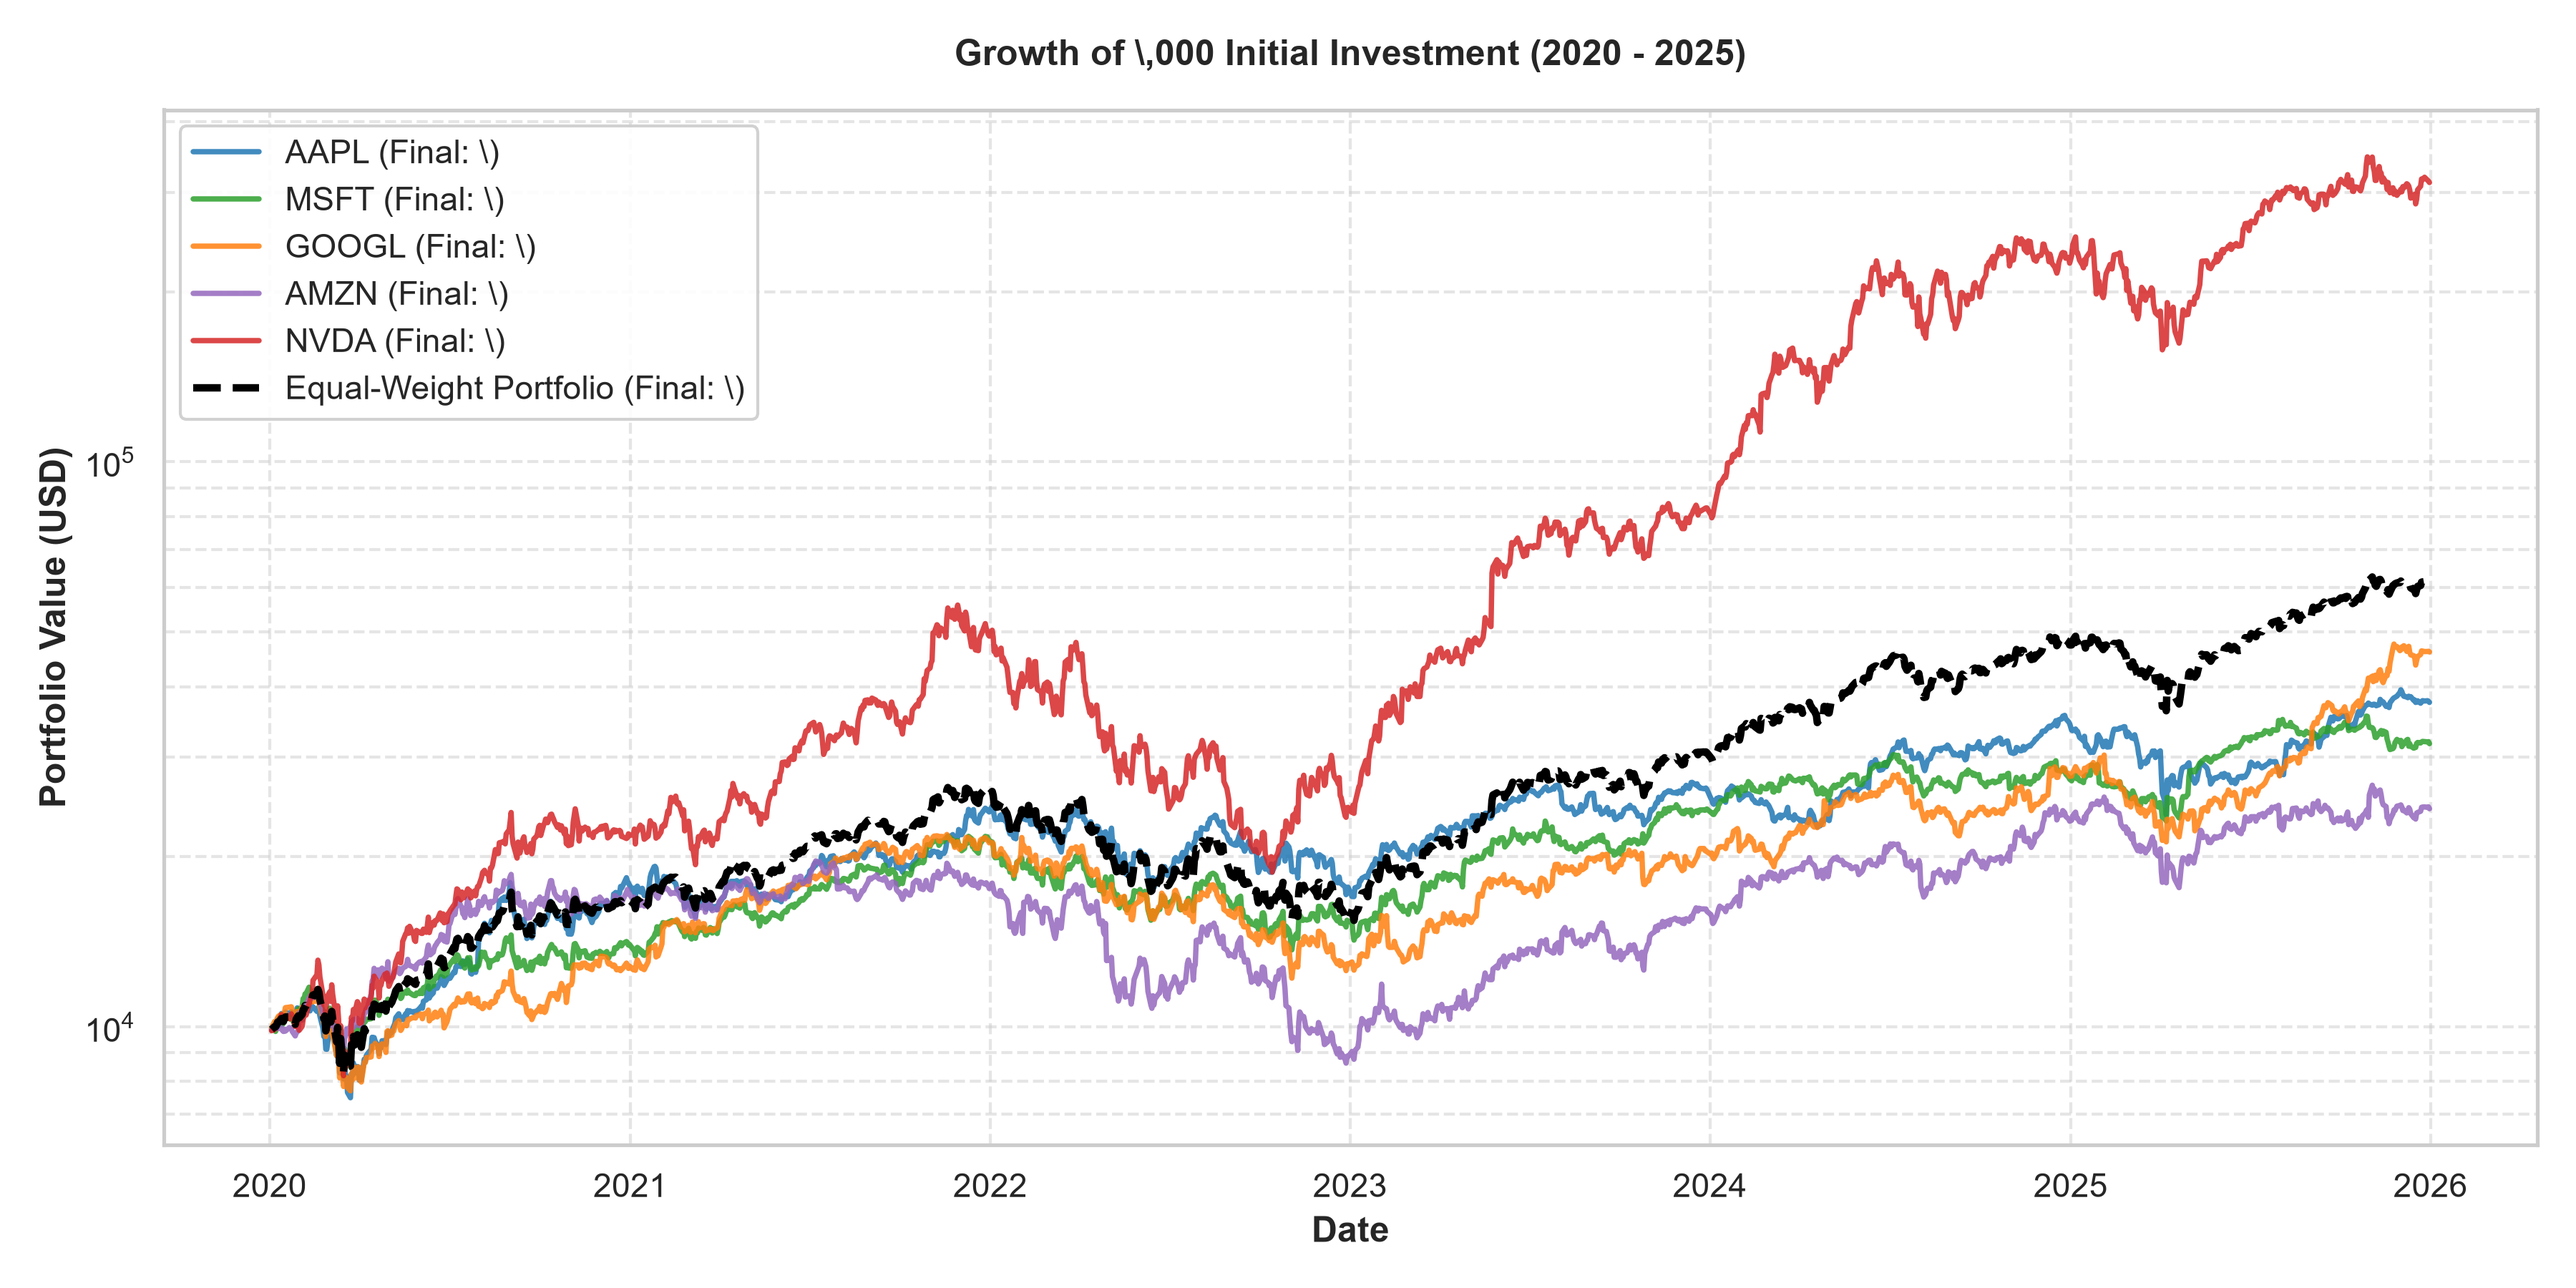
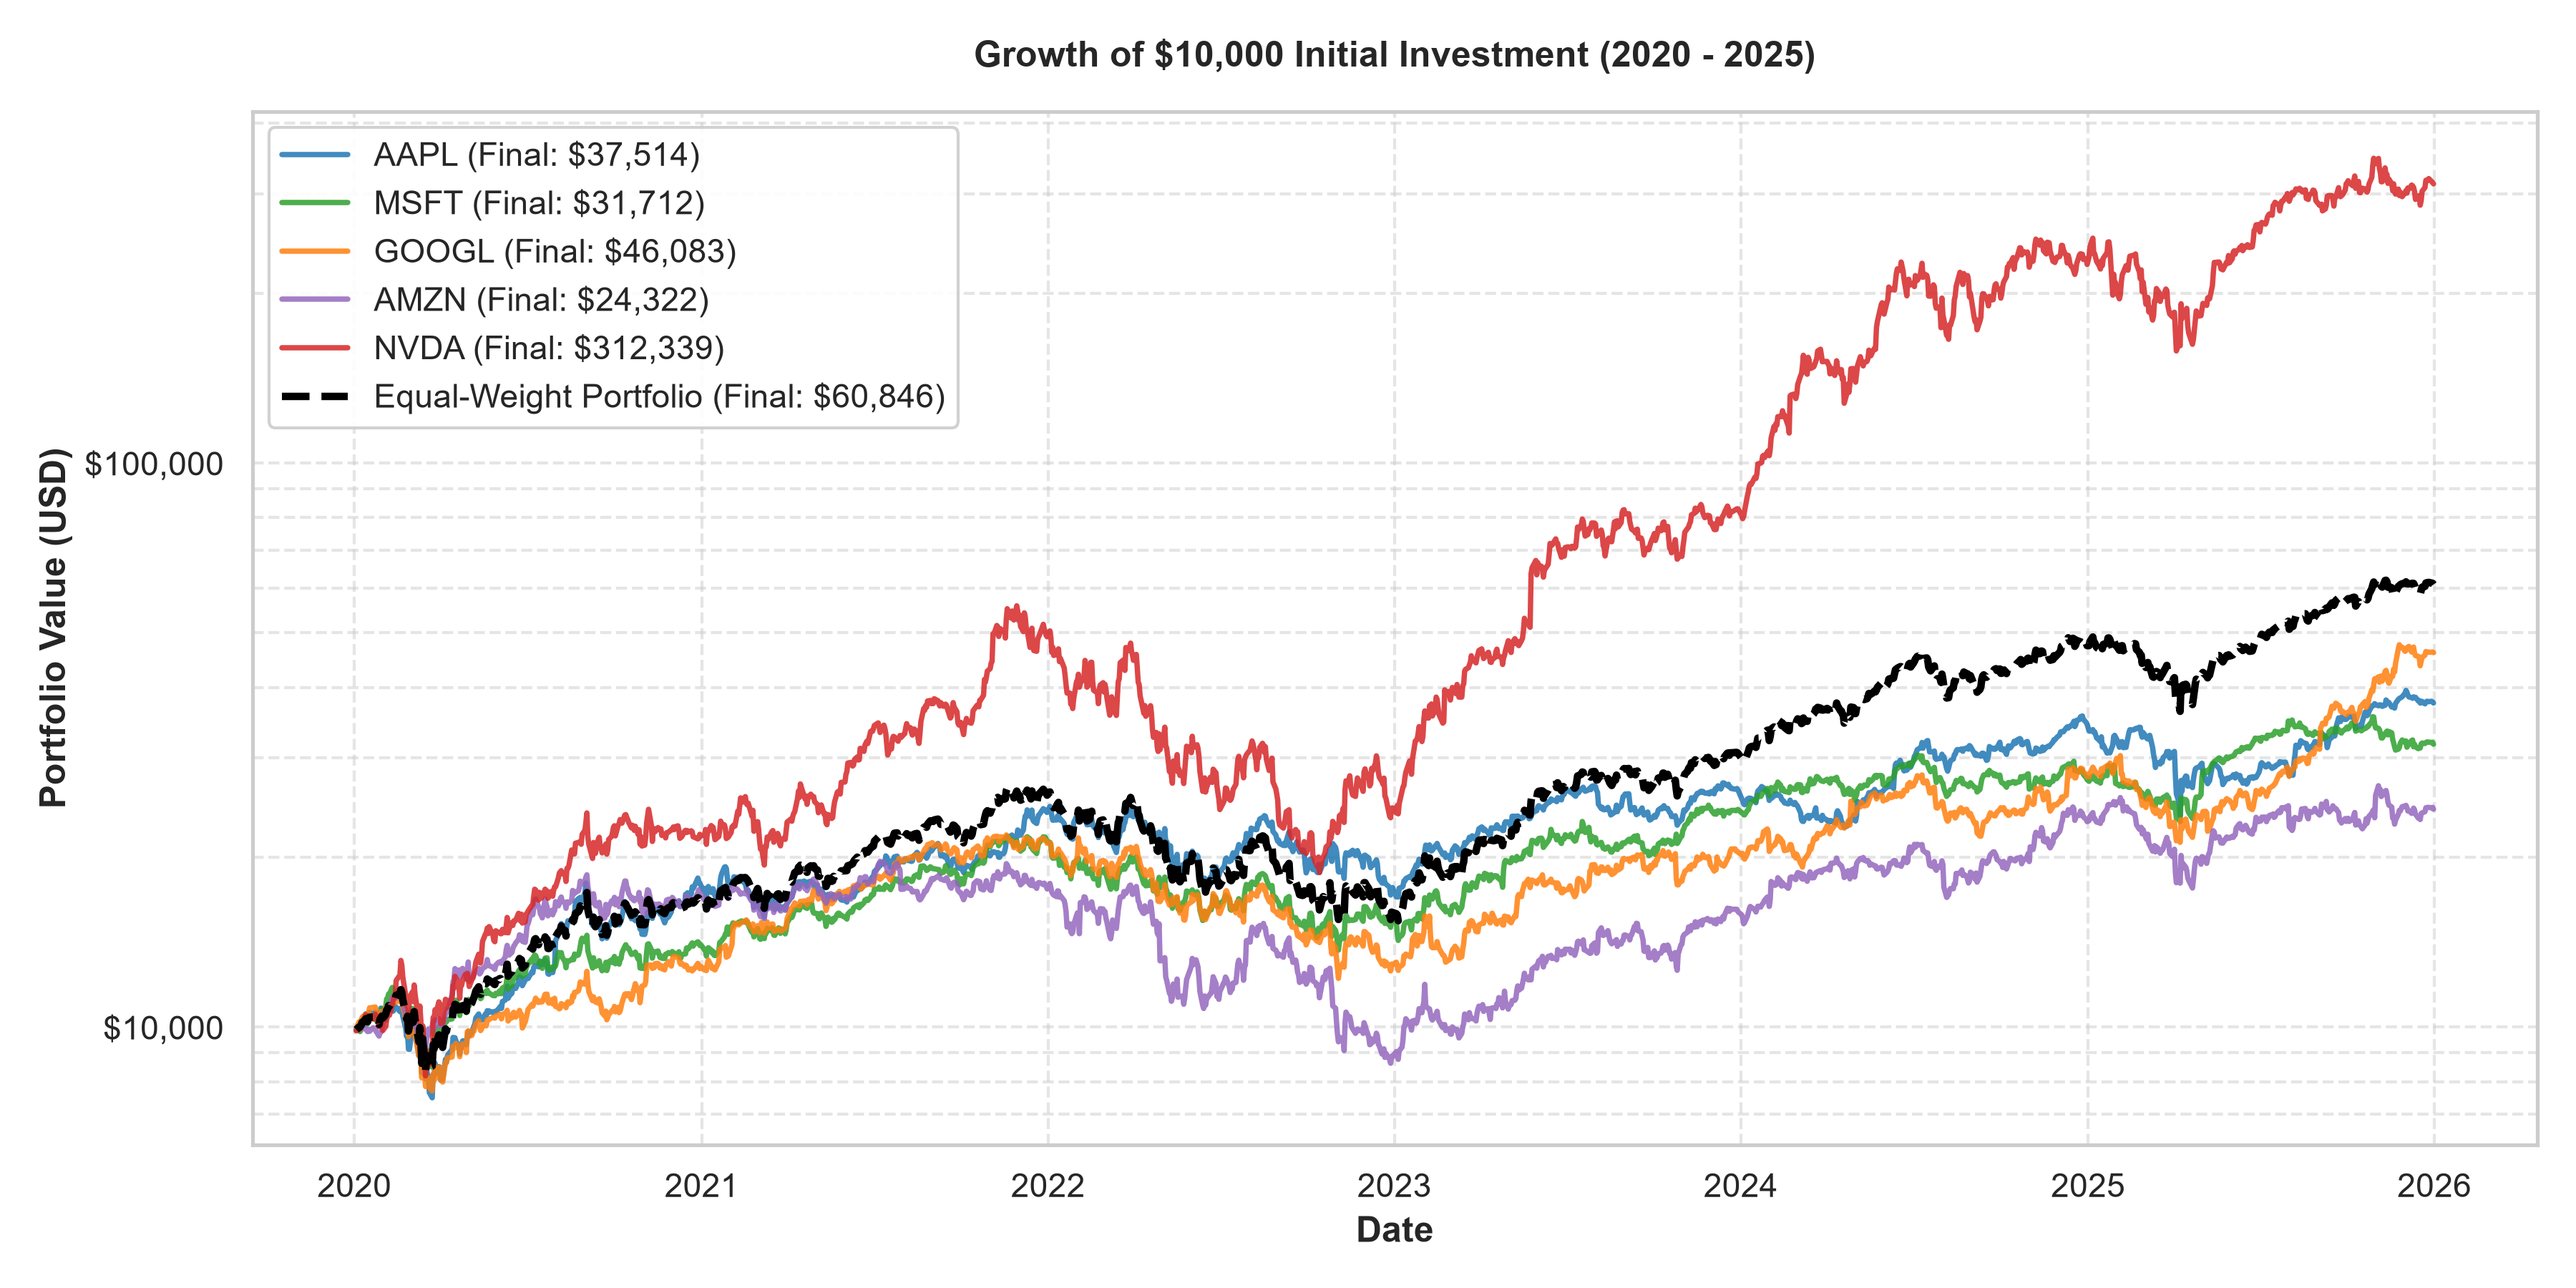
fix: remove resume section, fix LaTeX math blocks, and regenerate clean assets without backslashes

diff --git a/README.md b/README.md
@@ -20,7 +20,6 @@ An end-to-end quantitative financial analytics and algorithmic backtesting proje
 - [Strategic Capital Allocation Model ($10,000 Capital Base)](#-strategic-capital-allocation-model-10000-capital-base)
 - [Repository Structure](#-repository-structure)
 - [Quickstart & Installation](#-quickstart--installation)
-- [Resume / CV Bullet Points](#-resume--cv-bullet-points)
 - [License & Author](#-license--author)
 
 ---
@@ -33,7 +32,7 @@ This project conducts a comprehensive empirical study of five leading technology
 3. **Generative AI Secular Bull Cycle (2023–2025):** Explosive computing demand propelling semiconductor and hyperscaler equities to all-time highs.
 
 ### Core Quantitative Insights:
-- **Asymmetric Outperformance:** NVIDIA (`NVDA`) achieved a **+3,023.39% cumulative return** (turning \$10,000 into **\$312,339**), outperforming the second-best asset (`GOOGL`: +360.83%) by over **8x**, while simultaneously generating the cohort's highest Sharpe ratio (**1.2735**).
+- **Asymmetric Outperformance:** NVIDIA (`NVDA`) achieved a **+3,023.39% cumulative return** (turning $10,000 into **$312,339**), outperforming the second-best asset (`GOOGL`: +360.83%) by over **8x**, while simultaneously generating the cohort's highest Sharpe ratio (**1.2735**).
 - **Markowitz Diversification Benefit:** An equal-weighted ($1/N$) portfolio achieved an annualized volatility of **30.64%**—lower than 4 out of 5 individual assets (`AAPL`: 31.81%, `GOOGL`: 32.47%, `AMZN`: 35.70%, `NVDA`: 53.18%)—while delivering a **+508.46% total return** and a superior Sharpe ratio of **1.0111**.
 - **Downside Risk & Tail Clustering:** Maximum drawdowns reached **-66.34%** for NVDA and **-56.15%** for AMZN during 2022. Rolling volatility exhibited severe non-stationarity and clustering, peaking during the March 2020 liquidity shock at over **138% annualized**.
 - **Look-Ahead Bias Free Backtest:** A 50-day Simple Moving Average (SMA) trend-following system mitigated maximum drawdown (slashing NVDA drawdown from -66.34% to -33.78%) and cut annualized volatility across all assets, demonstrating an effective capital-preservation tool for risk-averse institutional mandates.
@@ -44,14 +43,14 @@ This project conducts a comprehensive empirical study of five leading technology
 
 All metrics calculated across **1,508 trading sessions** with an annual risk-free benchmark $R_f = 4.0\%$:
 
-| Asset / Portfolio | Cumulative Return | Annualized Return | Annualized Volatility | Sharpe Ratio ($R_f=4\%$) | Max Drawdown (MDD) | Final Value ($W_0=\$10\text{k}$) |
+| Asset / Portfolio | Cumulative Return | Annualized Return | Annualized Volatility | Sharpe Ratio ($R_f=4\%$) | Max Drawdown (MDD) | Final Value ($W_0=$10\text{k}$) |
 | :--- | :---: | :---: | :---: | :---: | :---: | :---: |
-| **NVIDIA (`NVDA`)** | **+3,023.39%** | +68.32% | 53.18% | **1.2735** | -66.34% | **\$312,338.93** |
-| **Alphabet (`GOOGL`)** | **+360.83%** | +30.28% | 32.47% | **0.8287** | -44.32% | **\$46,083.09** |
-| **Apple (`AAPL`)** | **+275.14%** | +26.54% | 31.81% | **0.7305** | **-33.36%** | **\$37,514.36** |
-| **Microsoft (`MSFT`)** | **+217.12%** | +23.08% | **29.55%** | **0.6682** | -37.15% | **\$31,711.60** |
-| **Amazon (`AMZN`)** | **+143.22%** | +17.93% | 35.70% | **0.4847** | -56.15% | **\$24,322.32** |
-| **Equal-Weight Portfolio** | **+508.46%** | **+38.16%** | **30.64%** | **1.0111** | **-41.83%** | **\$60,846.04** |
+| **NVIDIA (`NVDA`)** | **+3,023.39%** | +68.32% | 53.18% | **1.2735** | -66.34% | **$312,338.93** |
+| **Alphabet (`GOOGL`)** | **+360.83%** | +30.28% | 32.47% | **0.8287** | -44.32% | **$46,083.09** |
+| **Apple (`AAPL`)** | **+275.14%** | +26.54% | 31.81% | **0.7305** | **-33.36%** | **$37,514.36** |
+| **Microsoft (`MSFT`)** | **+217.12%** | +23.08% | **29.55%** | **0.6682** | -37.15% | **$31,711.60** |
+| **Amazon (`AMZN`)** | **+143.22%** | +17.93% | 35.70% | **0.4847** | -56.15% | **$24,322.32** |
+| **Equal-Weight Portfolio** | **+508.46%** | **+38.16%** | **30.64%** | **1.0111** | **-41.83%** | **$60,846.04** |
 
 ---
 
@@ -87,27 +86,48 @@ Empirical demonstration of volatility reduction and max drawdown mitigation achi
 
 ### 1. Daily Returns & Compounding Mechanics
 Daily discrete percentage return:
-$$R_t = \frac{P_t - P_{t-1}}{P_{t-1}}$$
+
+$$
+R_t = \frac{P_t - P_{t-1}}{P_{t-1}}
+$$
 
 Cumulative wealth from initial capital $W_0$:
-$$\text{Wealth}_t = W_0 \times \prod_{\tau=1}^t (1 + R_\tau)$$
+
+$$
+\text{Wealth}_t = W_0 \times \prod_{\tau=1}^t (1 + R_\tau)
+$$
 
 ### 2. Risk-Adjusted Return (Annualized Sharpe Ratio)
 Assuming 252 trading sessions per annum and daily risk-free conversion $R_{f, \text{daily}} = (1 + R_f)^{1/252} - 1$:
-$$\text{Sharpe Ratio} = \frac{\mathbb{E}[R_t - R_{f, \text{daily}}]}{\sigma(R_t)} \times \sqrt{252}$$
+
+$$
+\text{Sharpe Ratio} = \frac{\mathbb{E}[R_t - R_{f, \text{daily}}]}{\sigma(R_t)} \times \sqrt{252}
+$$
 
 ### 3. Peak-to-Trough Maximum Drawdown (MDD)
-$$\text{Drawdown}_t = \frac{P_t - \max_{\tau \le t} P_\tau}{\max_{\tau \le t} P_\tau}, \quad \text{MDD} = \min_{t \in [1, T]} \text{Drawdown}_t$$
+
+$$
+\text{Drawdown}_t = \frac{P_t - \max_{\tau \le t} P_\tau}{\max_{\tau \le t} P_\tau}, \quad \text{MDD} = \min_{t \in [1, T]} \text{Drawdown}_t
+$$
 
 ### 4. Modern Portfolio Theory (MPT) Equal-Weight Formulation
-$$R_{\text{port}, t} = \mathbf{w}^T \mathbf{R}_t = \sum_{i=1}^N w_i R_{i, t}, \quad \sigma_{\text{port}} = \sqrt{\mathbf{w}^T \mathbf{\Sigma} \mathbf{w}}$$
+
+$$
+R_{\text{port}, t} = \mathbf{w}^T \mathbf{R}_t = \sum_{i=1}^N w_i R_{i, t}, \quad \sigma_{\text{port}} = \sqrt{\mathbf{w}^T \mathbf{\Sigma} \mathbf{w}}
+$$
 
 ---
 
 ## 🤖 Algorithmic Strategy Backtesting
 
 To evaluate active market timing vs. passive indexing, we implemented a **50-day Simple Moving Average (SMA) Trend-Following Strategy**:
-$$\text{Signal}_t = \begin{cases} 1 & \text{if } P_{t-1} > \text{SMA}_{50}(t-1) \quad (\text{Long Equity}) \\ 0 & \text{otherwise} \quad (\text{100\% Risk-Free Cash}) \end{cases}$$
+
+$$
+\text{Signal}_t = \begin{cases} 
+1 & \text{if } P_{t-1} > \text{SMA}_{50}(t-1) \quad (\text{Long Equity}) \\ 
+0 & \text{otherwise} \quad (\text{100% Risk-Free Cash}) 
+\end{cases}
+$$
 
 ### Look-Ahead Bias Prevention
 Signals generated at the close of trading session $t-1$ are only executed on session $t$ by strictly applying `signal.shift(1)`. This ensures zero leakage of contemporaneous pricing into execution decisions.
@@ -125,11 +145,11 @@ Based on multi-objective empirical optimization (maximizing Sharpe ratio, dampen
 
 | Asset | Weight | Capital Allocation | Quantitative Investment Rationale |
 | :--- | :---: | :---: | :--- |
-| **NVIDIA (`NVDA`)** | **30%** | **\$3,000** | **Alpha Engine:** Captures secular AI tailwinds with cohort-leading Sharpe (1.2735) and +3,023% return; position sized to 30% to constrain exposure to its -66.34% drawdown. |
-| **Apple (`AAPL`)** | **25%** | **\$2,500** | **Capital Defense:** Lowest maximum drawdown (-33.36%) and reliable consumer ecosystem cash flows providing critical downside cushion. |
-| **Alphabet (`GOOGL`)** | **25%** | **\$2,500** | **Core Growth:** High risk-adjusted efficiency (Sharpe 0.8287) and lowest pairwise correlation with NVDA ($\rho = 0.5764$). |
-| **Microsoft (`MSFT`)** | **20%** | **\$2,000** | **Volatility Anchor:** Lowest annualized volatility (29.55%) among individual tech equities, stabilizing portfolio variance. |
-| **Amazon (`AMZN`)** | **0%** | **\$0** | **Excluded:** Underperformed cohort with lowest total return (+143.22%), severe drawdown (-56.15%), and weakest Sharpe ratio (0.4847). |
+| **NVIDIA (`NVDA`)** | **30%** | **$3,000** | **Alpha Engine:** Captures secular AI tailwinds with cohort-leading Sharpe (1.2735) and +3,023% return; position sized to 30% to constrain exposure to its -66.34% drawdown. |
+| **Apple (`AAPL`)** | **25%** | **$2,500** | **Capital Defense:** Lowest maximum drawdown (-33.36%) and reliable consumer ecosystem cash flows providing critical downside cushion. |
+| **Alphabet (`GOOGL`)** | **25%** | **$2,500** | **Core Growth:** High risk-adjusted efficiency (Sharpe 0.8287) and lowest pairwise correlation with NVDA ($\rho = 0.5764$). |
+| **Microsoft (`MSFT`)** | **20%** | **$2,000** | **Volatility Anchor:** Lowest annualized volatility (29.55%) among individual tech equities, stabilizing portfolio variance. |
+| **Amazon (`AMZN`)** | **0%** | **$0** | **Excluded:** Underperformed cohort with lowest total return (+143.22%), severe drawdown (-56.15%), and weakest Sharpe ratio (0.4847). |
 
 ---
 
@@ -208,23 +228,6 @@ print(f"SMA 50d Max Drawdown: {results['strategy_max_drawdown']*100:.2f}%")
 
 ---
 
-## 📝 Resume / CV Bullet Points
-
-Here are pre-formulated, high-impact bullet points ready to feature on your resume or LinkedIn profile:
-
-### 🇬🇧 English Version (Data Analyst / Quant Analyst / Data Scientist):
-- **Quantitative Equity Analytics & Portfolio Optimization:** Engineered an automated financial pipeline using Python and `yfinance` to ingest and analyze 1,508 trading sessions across mega-cap US equities (AAPL, MSFT, GOOGL, AMZN, NVDA).
-- **Risk-Adjusted Performance Modeling:** Evaluated multi-asset return distributions, peak-to-trough Maximum Drawdowns, and annualized Sharpe ratios ($R_f=4\%$), demonstrating that equal-weighted portfolio diversification dampened volatility to 30.64% (lower than 4/5 individual assets) while boosting Sharpe to 1.0111.
-- **Algorithmic Trend-Following Backtest:** Built and backtested a 50-day SMA momentum strategy incorporating strict 1-day signal lags to eliminate look-ahead bias, cutting annualized volatility by >30% and halving maximum drawdown on high-beta equities (NVDA: -66.3% to -33.8%).
-- **Strategic Capital Allocation:** Formulated an optimal \$10,000 multi-asset allocation model based on empirical correlation matrices ($\rho \in [0.58, 0.71]$) and volatility anchoring, effectively managing the risk-return efficient frontier.
-
-### 🇻🇳 Phiên bản Tiếng Việt (Chuyên viên Phân tích Dữ liệu / Tài chính Định lượng):
-- **Phân tích Định lượng & Tối ưu hóa Danh mục Đầu tư:** Xây dựng pipeline tự động hóa thu thập và xử lý dữ liệu chuỗi thời gian chứng khoán (1.508 phiên giao dịch của AAPL, MSFT, GOOGL, AMZN, NVDA) qua Python, Pandas và Yahoo Finance API.
-- **Mô hình hóa Rủi ro & Hiệu suất Điều chỉnh Rủi ro:** Đo lường phân phối tỷ suất sinh lời, Maximum Drawdown và Sharpe Ratio thường niên hóa ($R_f=4\%$), chứng minh danh mục đa dạng hóa (Equal-Weight) giảm độ lệch chuẩn xuống 30,64% (thấp hơn 4/5 cổ phiếu đơn lẻ) và nâng Sharpe ratio lên 1,0111.
-- **Kiểm định Chiến lược Giao dịch (Backtesting):** Xây dựng thuật toán giao dịch theo xu hướng (50-day SMA Momentum) với cơ chế dịch tín hiệu 1 phiên triệt tiêu hoàn toàn sai lệch nhìn trước (Look-Ahead Bias), giúp cắt giảm hơn 30% độ biến động và giảm một nửa mức sụt giảm tối đa (NVDA MDD từ -66,3% xuống -33,8%).
-- **Phân bổ Vốn Chiến lược:** Đề xuất mô hình phân bổ vốn 10.000 USD dựa trên ma trận tương quan ($\rho \in [0,58; 0,71]$) và nguyên lý neo biến động (Volatility Anchoring) tối ưu hóa tỷ lệ sinh lời/rủi ro.
-
----
 
 ## 📜 License & Author
 
